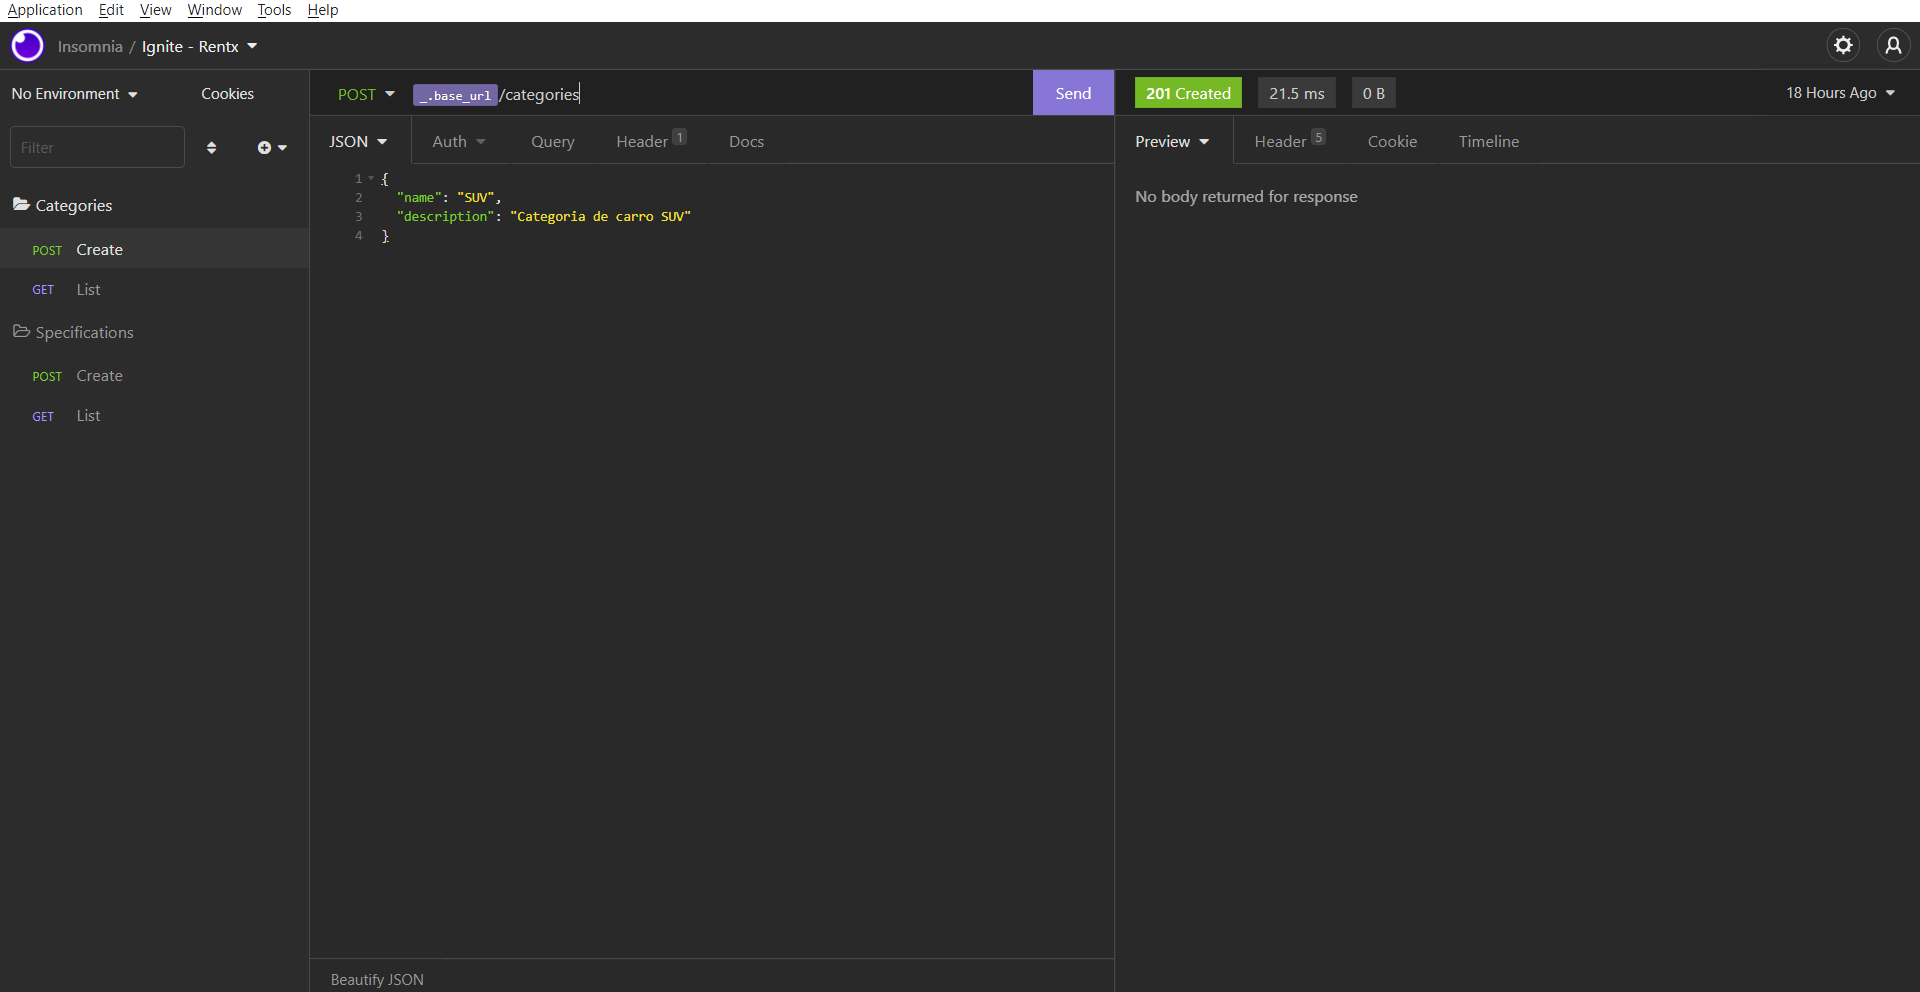
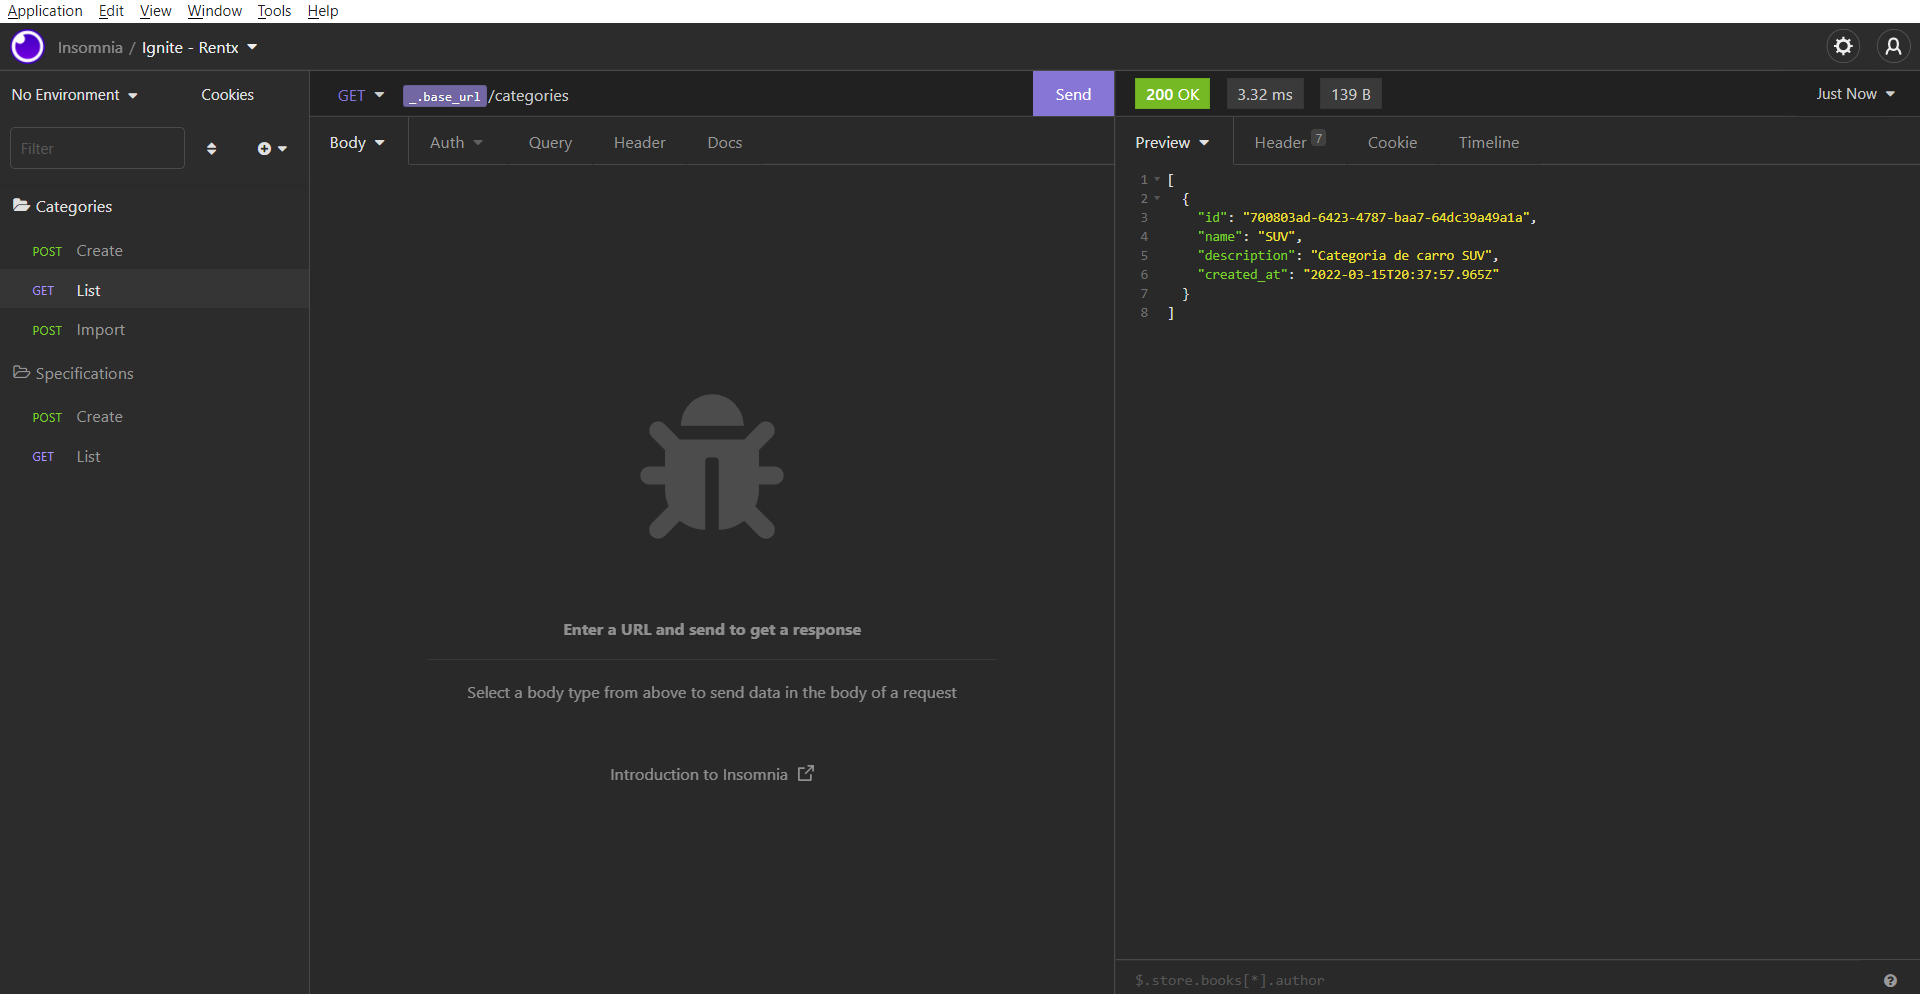
Upload de arquivo CSV para cadastro de categorias

diff --git a/src/modules/cars/useCases/importCategory/ImportCategoryUseCase.ts b/src/modules/cars/useCases/importCategory/ImportCategoryUseCase.ts
@@ -1,0 +1,55 @@
+import { parse as csvParse } from 'csv-parse';
+import fs from 'fs';
+
+import { ICategoriesRepository } from '../../repositories/ICategoriesRepository';
+
+interface IImportCategory {
+  name: string;
+  description: string;
+}
+
+class ImportCategoryUseCase {
+  constructor(private categoriesRepository: ICategoriesRepository) {}
+
+  async execute(file: Express.Multer.File): Promise<void> {
+    const categories = await this.loadCategories(file);
+
+    categories.map(async category => {
+      const { name, description } = category;
+
+      const categoryAlreadyExists = this.categoriesRepository.findByName(name);
+
+      if (!categoryAlreadyExists) {
+        this.categoriesRepository.create({ name, description });
+      }
+    });
+  }
+
+  loadCategories(file: Express.Multer.File): Promise<IImportCategory[]> {
+    return new Promise((resolve, reject) => {
+      const stream = fs.createReadStream(file.path);
+      const categories: IImportCategory[] = [];
+
+      const parseFile = csvParse();
+
+      stream.pipe(parseFile);
+
+      parseFile
+        .on('data', async line => {
+          const [name, description] = line;
+          categories.push({
+            name,
+            description,
+          });
+        })
+        .on('end', () => {
+          resolve(categories);
+        })
+        .on('error', err => {
+          reject(err);
+        });
+    });
+  }
+}
+
+export { ImportCategoryUseCase };

diff --git a/src/routes/categories.routes.ts b/src/routes/categories.routes.ts
@@ -1,9 +1,15 @@
 import { Router } from 'express';
+import multer from 'multer';
 
 import { createCategoryController } from '../modules/cars/useCases/createCategory';
+import { importCategoryController } from '../modules/cars/useCases/importCategory';
 import { listCategoriesController } from '../modules/cars/useCases/listCategories';
 
 const categoriesRoutes = Router();
+
+const upload = multer({
+  dest: './tmp/uploads',
+});
 
 categoriesRoutes.post('/', (request, response) => {
   return createCategoryController.handle(request, response);
@@ -11,6 +17,10 @@ categoriesRoutes.post('/', (request, response) => {
 
 categoriesRoutes.get('/', (request, response) => {
   return listCategoriesController.handle(request, response);
+});
+
+categoriesRoutes.post('/import', upload.single('file'), (request, response) => {
+  return importCategoryController.handle(request, response);
 });
 
 export { categoriesRoutes };

diff --git a/src/modules/cars/useCases/importCategory/index.ts b/src/modules/cars/useCases/importCategory/index.ts
@@ -1,0 +1,11 @@
+import { CategoriesRepository } from '../../repositories/implementations/CategoriesRepository';
+import { ImportCategoryController } from './ImportCategoryController';
+import { ImportCategoryUseCase } from './ImportCategoryUseCase';
+
+const categoriesRepository = CategoriesRepository.getInstance();
+const importCategoryUseCase = new ImportCategoryUseCase(categoriesRepository);
+const importCategoryController = new ImportCategoryController(
+  importCategoryUseCase,
+);
+
+export { importCategoryController };

diff --git a/src/modules/cars/useCases/importCategory/ImportCategoryController.ts b/src/modules/cars/useCases/importCategory/ImportCategoryController.ts
@@ -1,0 +1,17 @@
+import { Request, Response } from 'express';
+
+import { ImportCategoryUseCase } from './ImportCategoryUseCase';
+
+class ImportCategoryController {
+  constructor(private importCategoryUseCase: ImportCategoryUseCase) {}
+
+  handle(request: Request, response: Response): Response {
+    const { file } = request;
+
+    this.importCategoryUseCase.execute(file);
+
+    return response.send();
+  }
+}
+
+export { ImportCategoryController };

diff --git a/README.md b/README.md
@@ -132,3 +132,12 @@ yarn test
 - L => LSP: Liskov Substitution Principle (Princípio da substituição de Liskov)
 - I => ISP: Interface Segregation Principle (Princípio da Segregação da Interface)
 - D => DIP: Dependency Inversion Principle (Princípio da inversão da dependência)
+
+### Upload de arquivos
+
+- `yarn add multer` para instalar o multer
+- `yarn add @types/multer -D` instala a definição de tipo da biblioteca multer
+
+### Leitura de arquivos CSV
+
+- `yarn add csv-parse` para instalar a csv-parse
